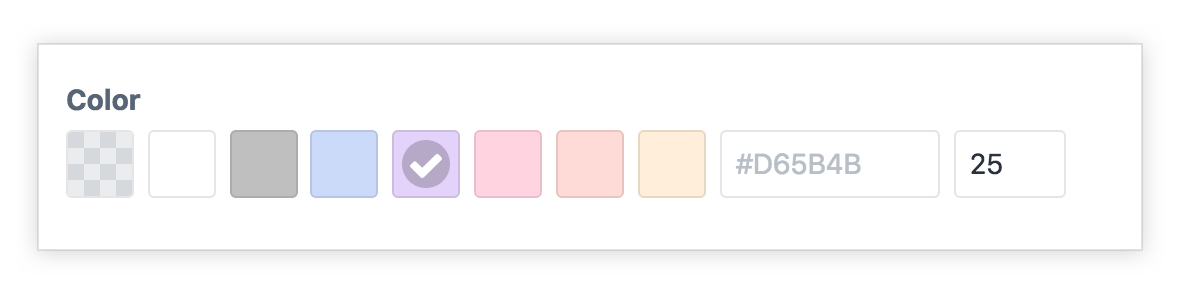
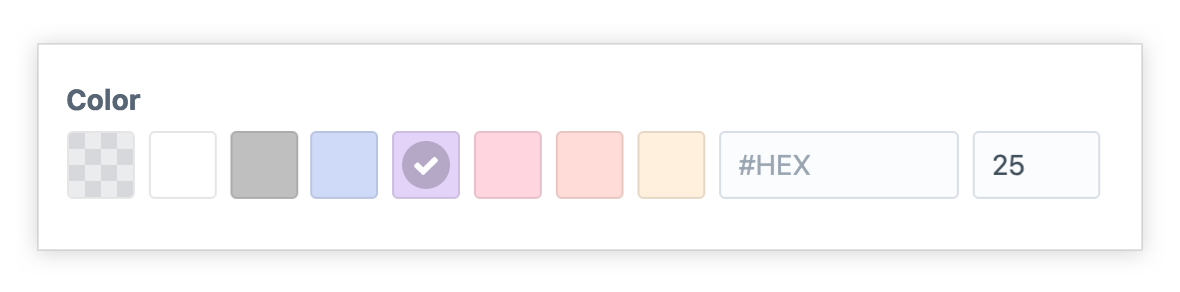
Readme updates

diff --git a/README.md b/README.md
@@ -39,6 +39,10 @@ Define a custom color.
 
 <p align="left"><img width="590px" src="resources/img/colorit-field-custom.png" alt="Custom Setting"></a></p>
 
+Option field descriptions.
+
+<p align="left"><img width="590px" src="resources/img/colorit-field-desc.png" alt="Field Descriptions"></a></p>
+
 
 ## Templating
 
@@ -100,5 +104,15 @@ Colorit lets you create custom presets that can be selected when creating colori
 When creating a new Colorit field you'll have the option to choose one of your presets or create custom field settings for that field. Settings include defining your color palette, appending transparent, black and white. Allowsing custom colours to be created, opacity and label settings.
 
 <p align="left"><img width="590px" src="resources/img/colorit-choose-preset.png" alt="Preset Choice"></a></p>
+
+## Tailwind CSS
+
+You can easily use Colorit with Tailwind CSS by outputting the Colorit field handle to the class attribute.
+
+<p align="left"><img width="590px" src="resources/img/colorit-choose-tailwind.png" alt="Tailwind"></a></p>
+
+<p align="left"><img width="590px" src="colorit-choose-tailwind-palette.png" alt="Tailwind Palette"></a></p>
+
+<p align="left"><img width="590px" src="resources/img/colorit-choose-twig.png" alt="Tailwind Twig"></a></p>
 
 Brought to you by [Pressed Digital](https://presseddigital.co.uk).

diff --git a/CHANGELOG.md b/CHANGELOG.md
@@ -1,5 +1,12 @@
 # Colorit Changelog
-> A palette fieldtype built for [Craft 3](http://craftcms.com)
+> A palette fieldtype built for [Craft 3](https://craftcms.com)
+
+## 1.1.2 - 2021-07-28
+
+### Changed
+- :mega: **Default Color Output Changed
+- The Auto (Best Guest) option in settings will now output a value including the # symbol (#123456) for any colour with an opacity set to 100 and an RGBa value where the opacity < 100. This is so the default twig fieldtype {{ entry.myColoritFieldName }} can handle all setting.
+- Update README imagery and include [Tailwind](https://tailwindcss.com/) usage example.
 
 ## 1.1.1 - 2021-07-26
 
